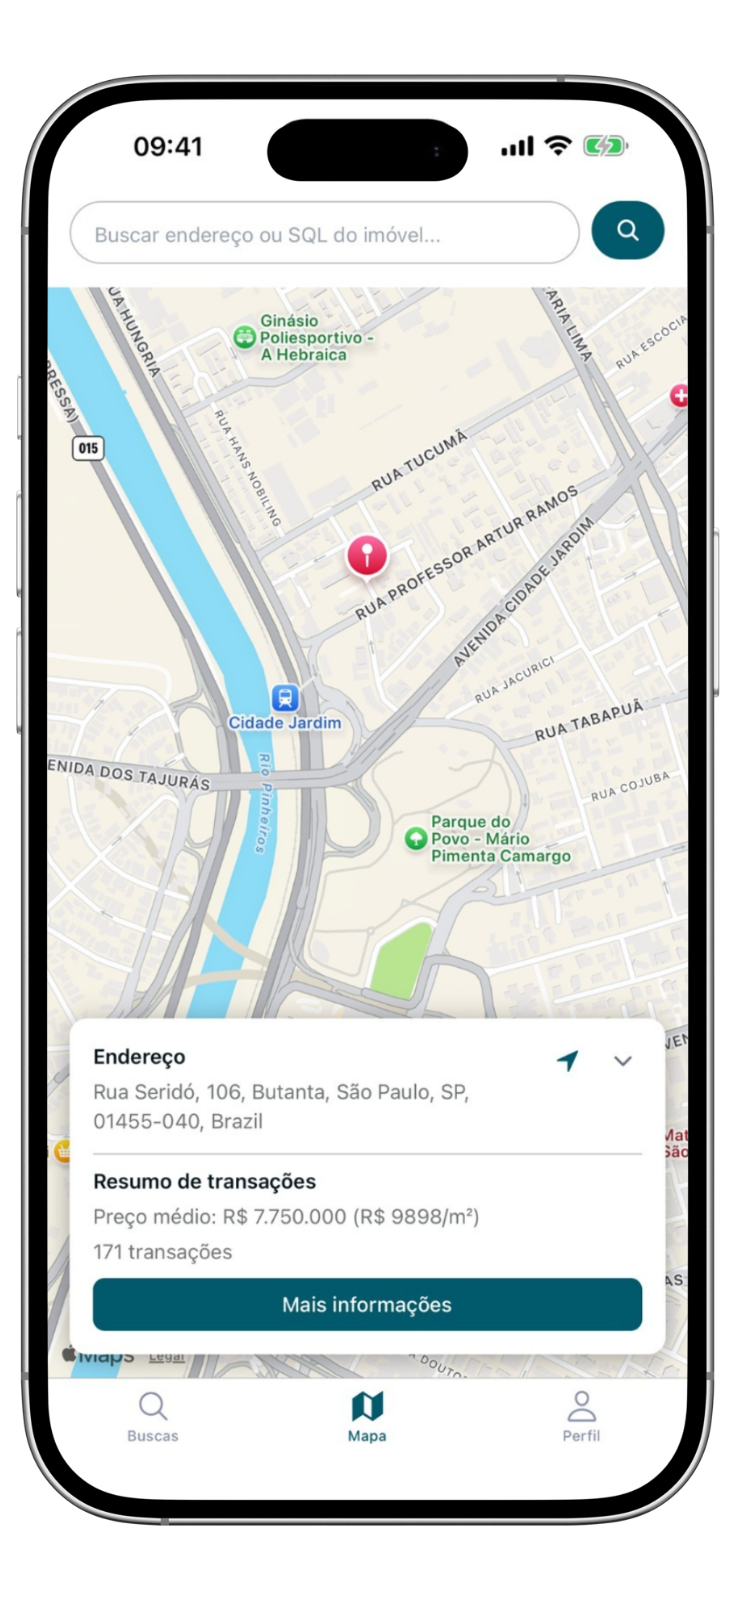
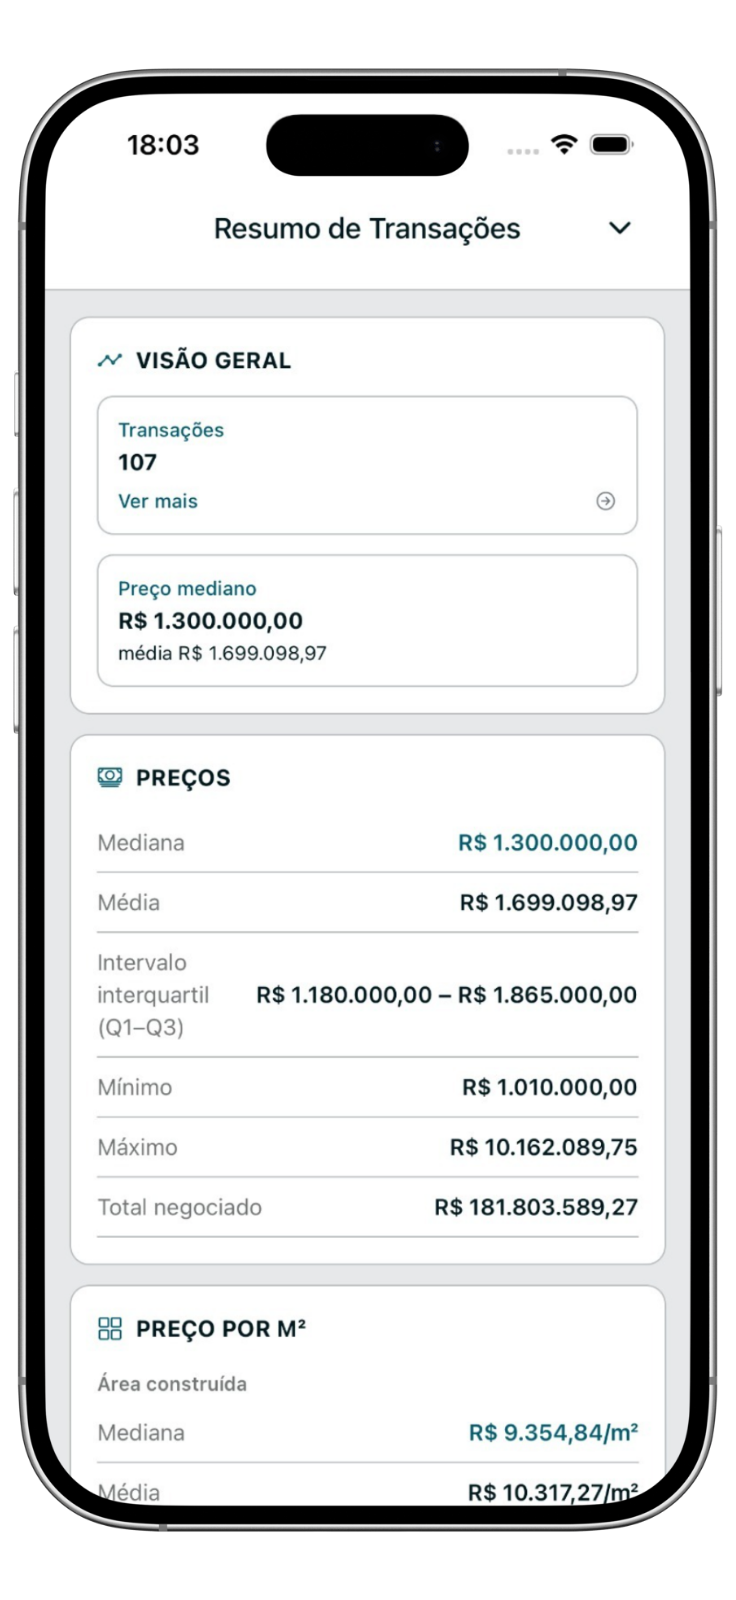
feat: new section

diff --git a/app/[locale]/components/app-showcase-section.tsx b/app/[locale]/components/app-showcase-section.tsx
@@ -39,14 +39,14 @@ const AppShowcaseSection = () => {
          delay: 0,
       },
       {
-         src: '/fotos-app/3.png',
+         src: '/fotos-app/2.png',
          title: t('mapa_title'),
          desc: t('mapa_desc'),
          alt: t('mapa_alt'),
          delay: 100,
       },
       {
-         src: '/fotos-app/2.png',
+         src: '/fotos-app/3.png',
          title: t('resumo_title'),
          desc: t('resumo_desc'),
          alt: t('resumo_alt'),